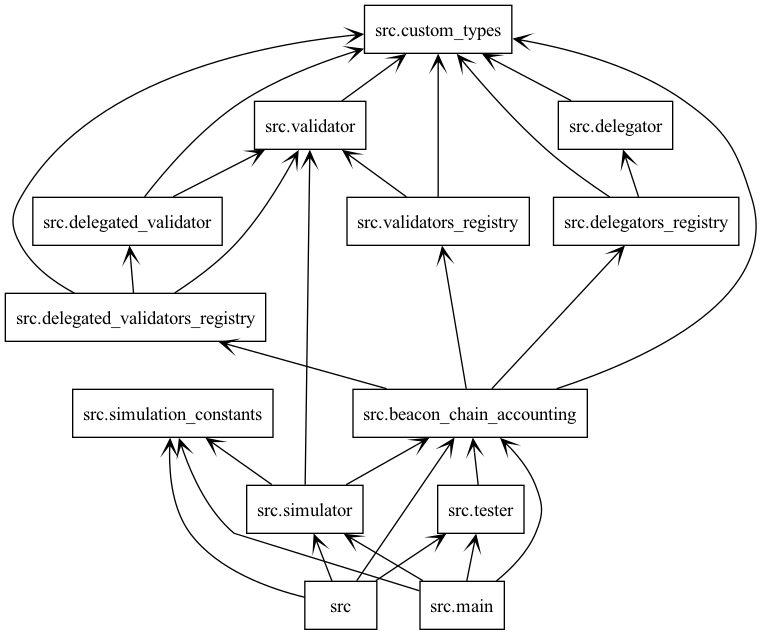
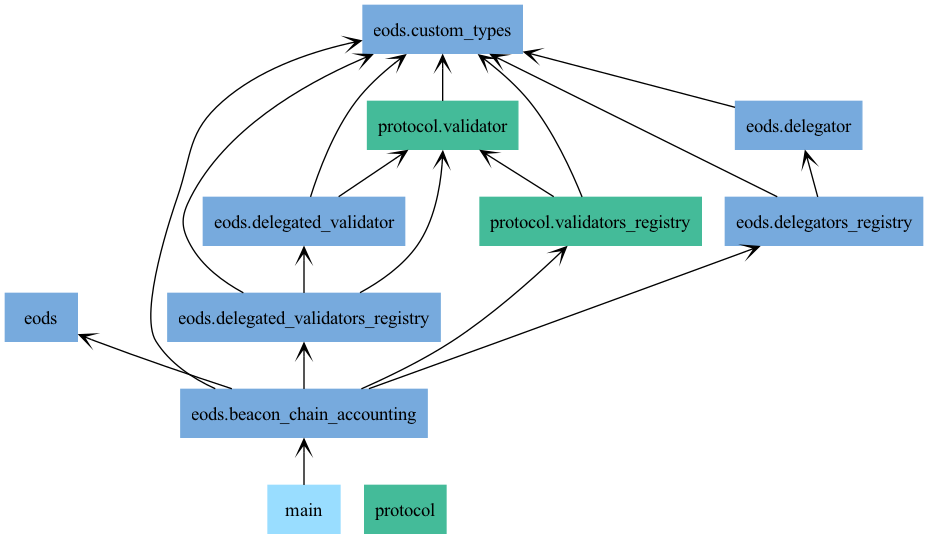
Generated UML

diff --git a/src/main.py b/src/main.py
@@ -1,0 +1,26 @@
+"""
+eODS
+"""
+
+from eods.beacon_chain_accounting import BeaconChainAccounting
+from simulator import Simulator
+from simulation_constants import num_ticks
+from tester import Tester
+from eods import *
+from protocol import *
+
+class Main:
+    beacon_chain_accounting = BeaconChainAccounting()
+
+    simulator = Simulator(beacon_chain_accounting)
+    simulator.initialize_required_data()
+
+    for _ in range(num_ticks):
+        simulator.tick_delegation()
+        simulator.process_rewards_penalties()
+        simulator.tick_withdrawals()
+
+    tester = Tester(beacon_chain_accounting)
+    assert tester.test_quotas_sum_to_be_1()
+
+run = Main()
